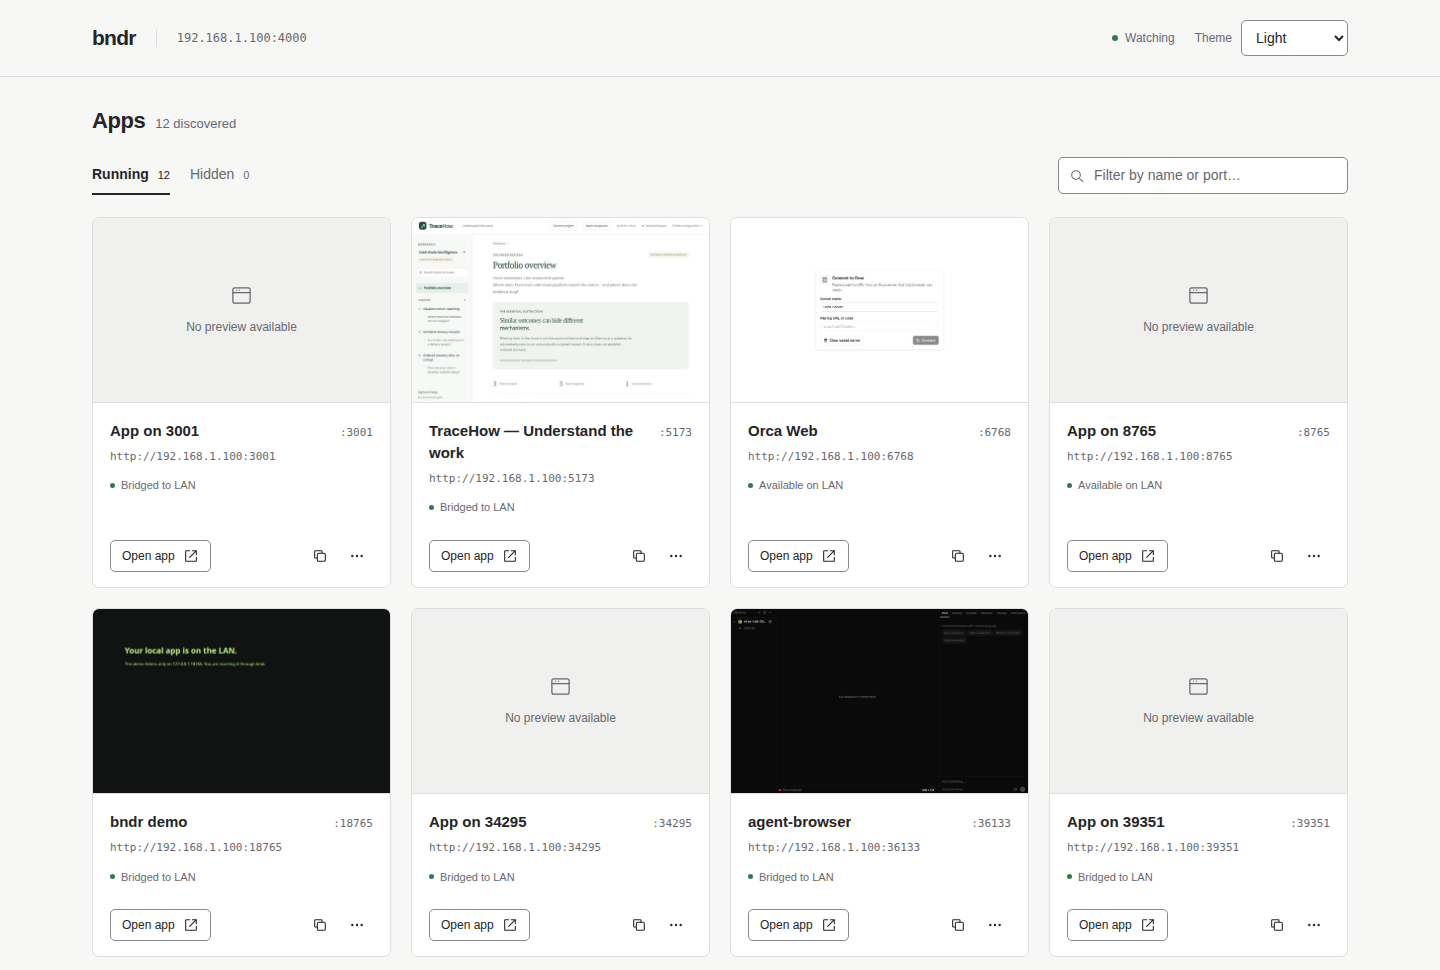
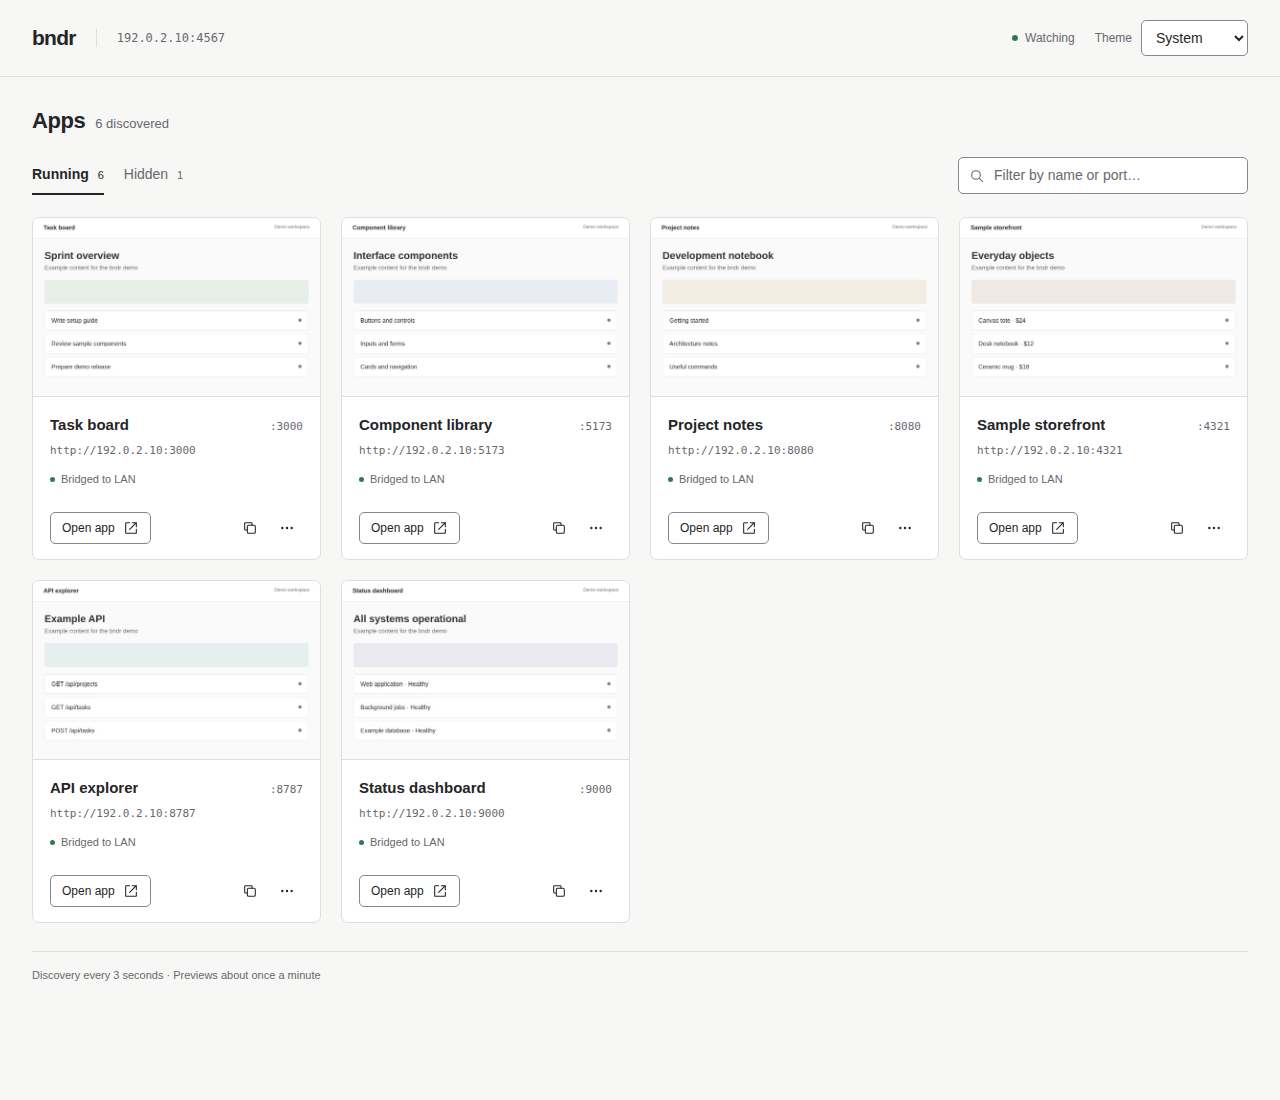
Replace README screenshot with fictional demo data

diff --git a/README.md b/README.md
@@ -2,7 +2,7 @@
 
 A lightweight Linux dashboard that makes local HTTP development servers available on your LAN. Start an app from Claude Code, Codex, a terminal, or any other tool; bndr discovers the listening socket and adds a link to the dashboard.
 
-![bndr dashboard showing local apps, screenshot previews, and the theme selector](docs/images/dashboard.png)
+![bndr dashboard with fictional apps, mock previews, and example IP addresses](docs/images/dashboard.png)
 
 ## Install a published release
 
